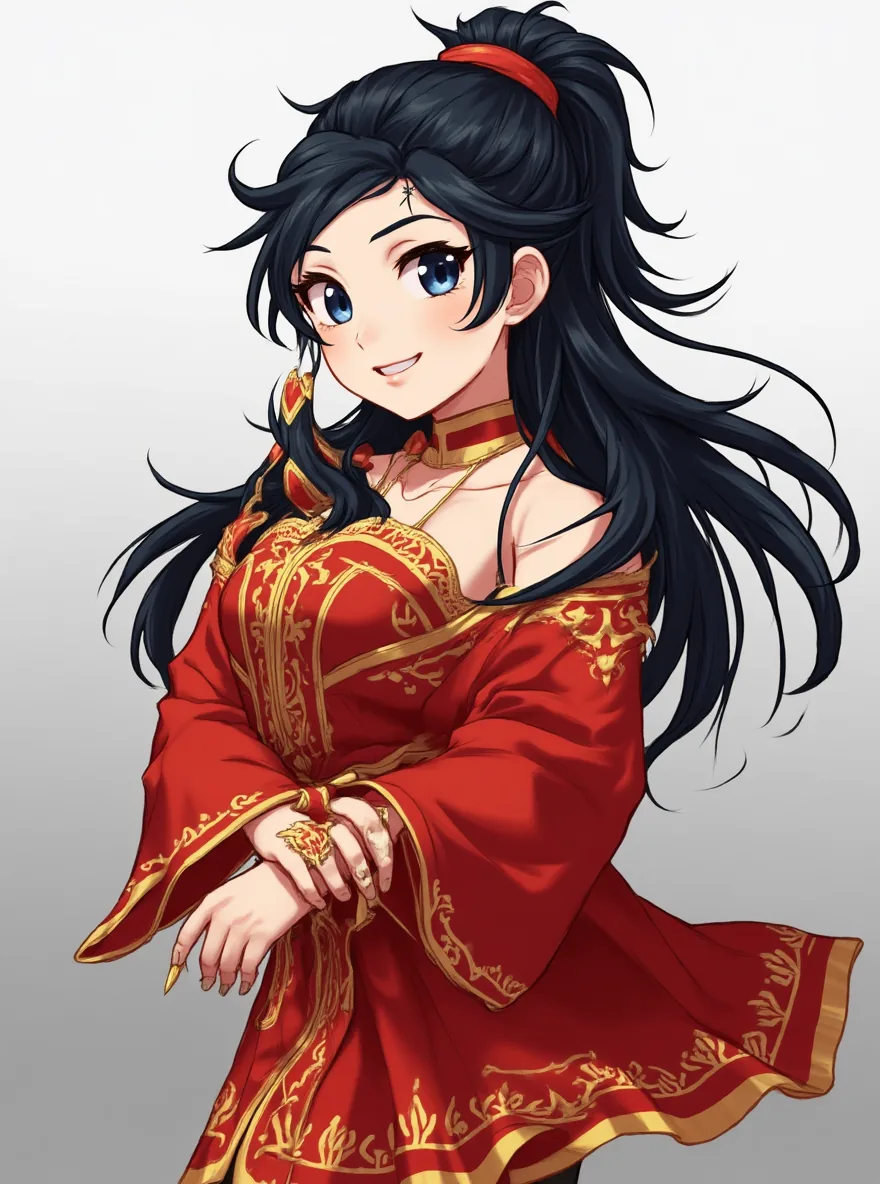
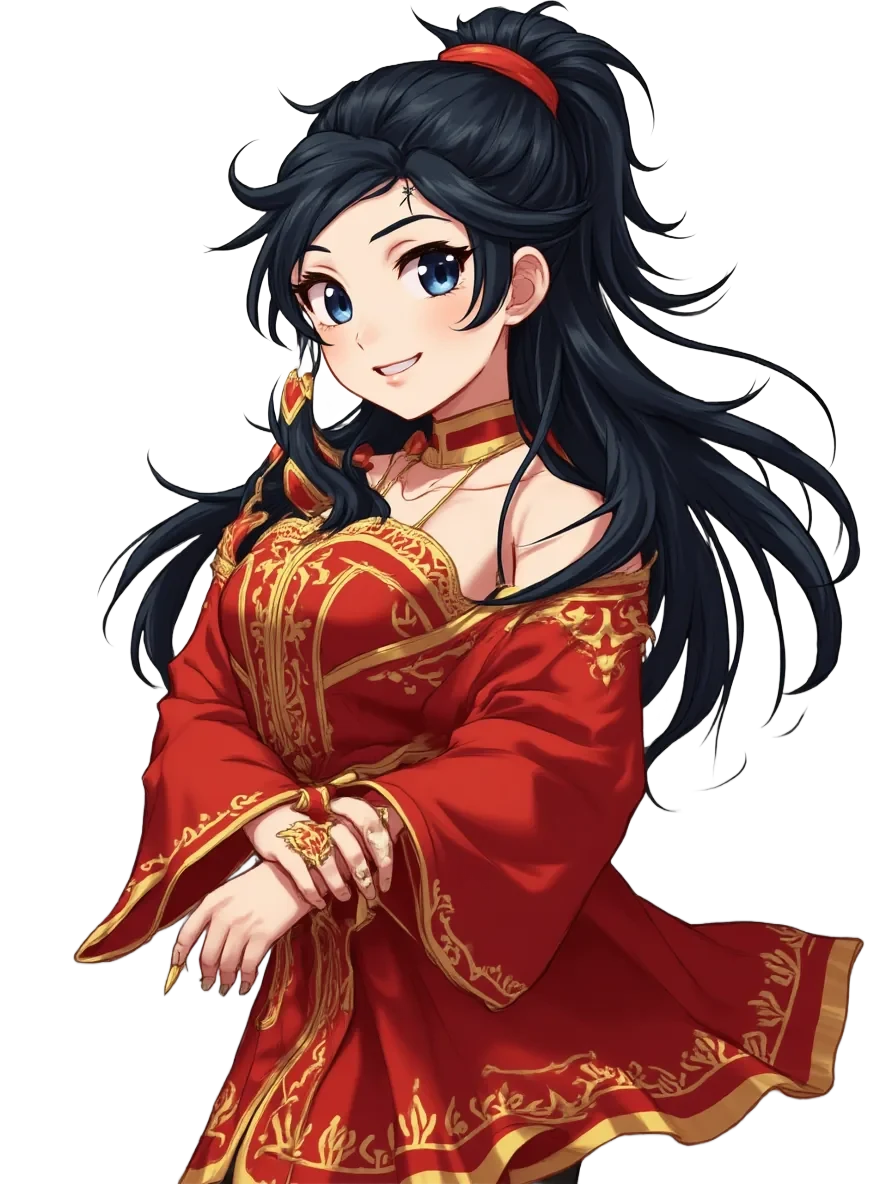
Publish transparent visual novel sprites

diff --git a/src/visualNovel/loader.ts b/src/visualNovel/loader.ts
@@ -2,7 +2,7 @@ import type { VnAssetManifest, VnIndexEntry, VnScript, VnWorld, VnWorldIndexEntr
 
 const VN_INDEX_PATH = 'reader-packs/lms-books/visual-novels/index.json'
 const VN_WORLD_INDEX_PATH = 'reader-packs/lms-books/visual-novels/worlds/index.json'
-const VN_CONTENT_CACHE_VERSION = '2026-06-05-vn-world-webp-v3'
+const VN_CONTENT_CACHE_VERSION = '2026-06-05-vn-world-alpha-sprites-v1'
 const JSON_TIMEOUT_MS = 15000
 
 export async function loadVisualNovelIndex(): Promise<VnIndexEntry[]> {

diff --git a/public/service-worker.js b/public/service-worker.js
@@ -1,4 +1,4 @@
-const CACHE_VERSION = 'chunky-chinese-v38'
+const CACHE_VERSION = 'chunky-chinese-v39'
 // Change CACHE_VERSION whenever the app shell changes and you want browsers to
 // discard old cached files. The activate handler below removes older versions.
 const APP_BASE = new URL('./', self.location.href).pathname
